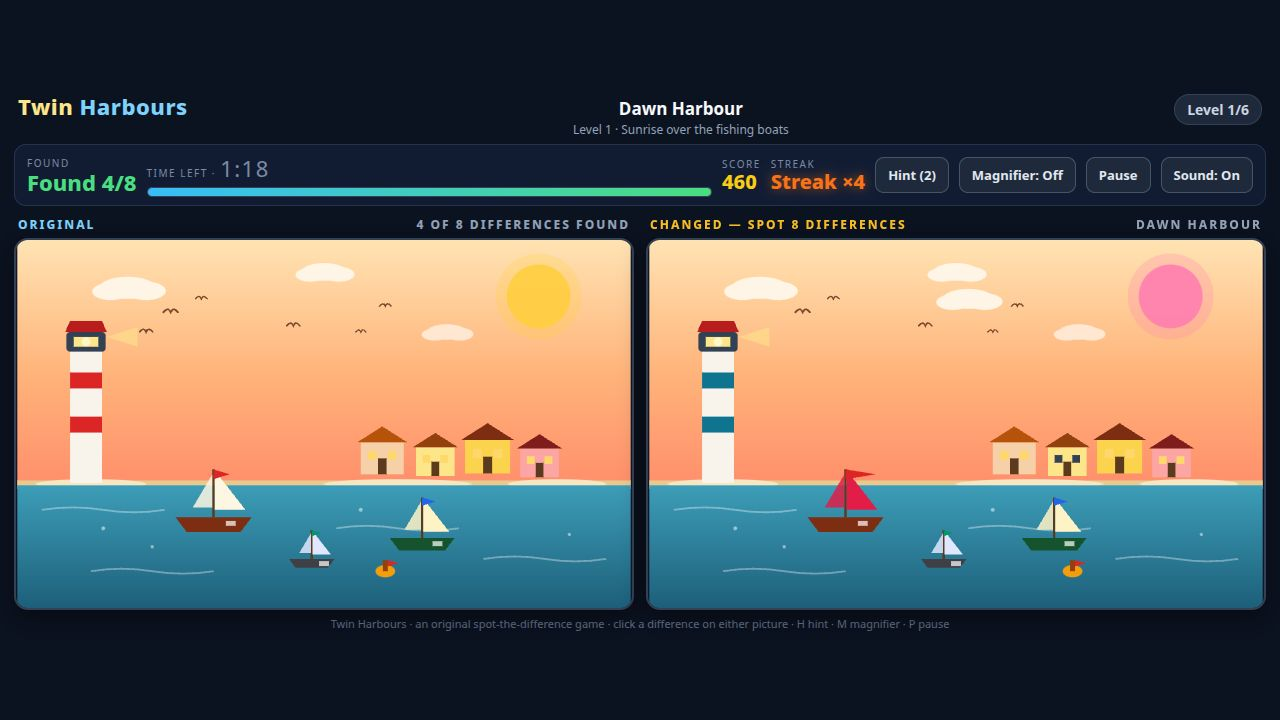
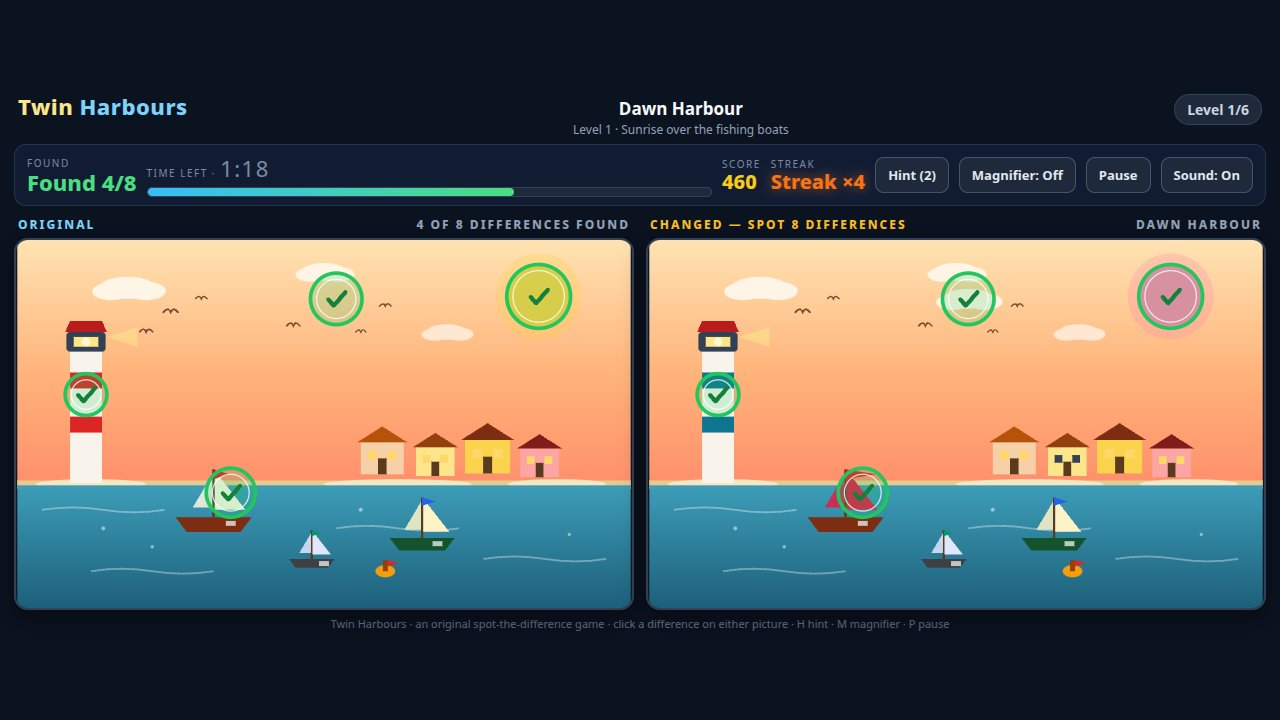
Fix cover markers, polish Night Market, re-park scene-3 lens
- stageShot now freezes staged found-markers at their final state
  (animation: none): the pop entrance animation only advances while
  the compositor produces frames, which an idle headless page may not
  do before the screenshot, so the committed cover caught the markers
  at opacity 0. Real gameplay finds still animate.
- Night Market: cobbled market floor with lantern light pools,
  fruit basket, crates, two ground lanterns, two extra shoppers with
  foot shadows, rooftop silhouettes between stalls, extra stars,
  stall posts and scalloped valances. No difference anchor moved.
- Scene 3 lens re-parked over the purple octopus (capture mouse move
  only, no game-code change).
- All four screenshots re-captured and verified by eye; full 6-level
  playtest 26/26.

diff --git a/game/src/scenes.js b/game/src/scenes.js
@@ -94,6 +94,8 @@ function buildNightMarket(changed, p) {
   <rect width="1000" height="600" fill="url(#${p}night)"/>
   <circle cx="880" cy="80" r="34" fill="#fef3c7"/><circle cx="880" cy="80" r="46" fill="#fef3c7" opacity="0.12"/>
   ${star(120, 60, 7, '#fff')}${star(240, 110, 5, '#fff')}${star(420, 50, 6, '#fff')}${star(640, 90, 5, '#fff')}${star(760, 40, 6, '#fff')}${star(60, 180, 4, '#fff')}${star(960, 150, 5, '#fff')}
+  ${star(30, 90, 4, '#fff')}${star(170, 45, 5, '#fff')}${star(560, 45, 4, '#fff')}${star(700, 140, 5, '#fff')}${star(980, 220, 4, '#fff')}${star(40, 260, 4, '#fff')}
+  <g fill="#131c33"><path d="M 322 330 L 322 306 L 350 292 L 378 306 L 378 330 Z"/><rect x="344" y="310" width="10" height="12" fill="#fde68a" opacity="0.85"/><path d="M 642 330 L 642 300 L 670 286 L 698 300 L 698 330 Z"/><rect x="664" y="304" width="10" height="12" fill="#fde68a" opacity="0.85"/><path d="M 0 330 L 0 308 L 28 296 L 58 308 L 58 330 Z"/><path d="M 950 330 L 950 304 L 975 292 L 1000 304 L 1000 330 Z"/></g>
   <path d="M 0 40 Q 250 90 500 45 T 1000 55" stroke="#3a2a1a" stroke-width="3" fill="none"/>
   <g>${[90, 190, 290, 390, 490, 590, 690, 790, 890].map((x, i) => {
     if (changed && i === 4) return `<circle cx="${x}" cy="62" r="4" fill="#334155"/>`;
@@ -107,8 +109,19 @@ function buildNightMarket(changed, p) {
   <g><rect x="60" y="330" width="260" height="16" fill="${awning}"/><rect x="60" y="346" width="260" height="130" fill="#7c2d12"/><rect x="80" y="380" width="220" height="60" fill="#451a03"/><g fill="#fbbf24"><circle cx="110" cy="410" r="10"/><circle cx="160" cy="410" r="10"/><circle cx="210" cy="410" r="10"/><circle cx="260" cy="410" r="10"/></g><rect x="120" y="300" width="140" height="30" rx="6" fill="#f87171"/><text x="190" y="321" font-size="18" font-weight="bold" text-anchor="middle" fill="#7f1d1d">DUMPLINGS</text></g>
   <g><rect x="380" y="330" width="260" height="16" fill="#0ea5e9"/><rect x="380" y="346" width="260" height="130" fill="#0c4a6e"/><rect x="400" y="380" width="220" height="60" fill="#082f49"/><g fill="#a5f3fc"><rect x="410" y="392" width="40" height="36" rx="4"/><rect x="470" y="392" width="40" height="36" rx="4"/><rect x="530" y="392" width="40" height="36" rx="4"/></g><rect x="440" y="300" width="140" height="30" rx="6" fill="${teaSign}"/><text x="510" y="321" font-size="18" font-weight="bold" text-anchor="middle" fill="#713f12">TEA HOUSE</text></g>
   <g><rect x="700" y="330" width="240" height="16" fill="#ec4899"/><rect x="700" y="346" width="240" height="130" fill="#831843"/><rect x="720" y="380" width="200" height="60" fill="#500724"/><g fill="#fda4af"><circle cx="760" cy="410" r="12"/><circle cx="830" cy="410" r="12"/><circle cx="900" cy="410" r="12"/></g><rect x="760" y="300" width="140" height="30" rx="6" fill="#fde68a"/><text x="830" y="321" font-size="18" font-weight="bold" text-anchor="middle" fill="#713f12">FLOWERS</text></g>
+  <g fill="#3f2d1e"><rect x="60" y="346" width="8" height="130"/><rect x="312" y="346" width="8" height="130"/><rect x="380" y="346" width="8" height="130"/><rect x="632" y="346" width="8" height="130"/><rect x="700" y="346" width="8" height="130"/><rect x="932" y="346" width="8" height="130"/></g>
+  <g fill="#3f2d1e">${[60, 380, 700].map((x) => Array.from({ length: 13 }, (_, i) => `<circle cx="${x + 10 + i * 20}" cy="350" r="10"/>`).join('')).join('')}</g>
   ${changed ? '<g><ellipse cx="820" cy="330" rx="26" ry="10" fill="#1f2937"/><circle cx="800" cy="322" r="10" fill="#1f2937"/><polygon points="794,314 798,302 804,314" fill="#1f2937"/><polygon points="802,314 806,302 812,314" fill="#1f2937"/><circle cx="797" cy="320" r="1.6" fill="#fbbf24"/></g>' : ''}
-  <rect x="0" y="476" width="1000" height="124" fill="#241a12"/>
+  <rect x="0" y="476" width="1000" height="124" fill="#2e2118"/>
+  <g fill="#fbbf24" opacity="0.08"><ellipse cx="150" cy="548" rx="72" ry="26"/><ellipse cx="300" cy="548" rx="72" ry="26"/><ellipse cx="470" cy="548" rx="72" ry="26"/><ellipse cx="620" cy="548" rx="72" ry="26"/><ellipse cx="850" cy="548" rx="72" ry="26"/></g>
+  <g fill="#3d2c1d" opacity="0.8">${[494, 518, 590].map((y, row) => { const off = row % 2 ? 42 : 0; return Array.from({ length: 12 }, (_, i) => `<ellipse cx="${off + 42 + i * 84}" cy="${y}" rx="36" ry="8"/>`).join(''); }).join('')}</g>
+  <g fill="#000" opacity="0.3"><ellipse cx="180" cy="560" rx="22" ry="5"/><ellipse cx="270" cy="558" rx="20" ry="5"/><ellipse cx="430" cy="570" rx="20" ry="5"/><ellipse cx="700" cy="560" rx="22" ry="5"/><ellipse cx="880" cy="563" rx="20" ry="5"/></g>
+  <g><ellipse cx="100" cy="560" rx="34" ry="12" fill="#6b4423"/><ellipse cx="100" cy="554" rx="28" ry="10" fill="#8a5a2b"/><g fill="#f97316"><circle cx="86" cy="550" r="7"/><circle cx="100" cy="546" r="7"/><circle cx="114" cy="550" r="7"/></g><g fill="#facc15"><circle cx="93" cy="556" r="6"/><circle cx="107" cy="556" r="6"/></g></g>
+  <g><rect x="340" y="542" width="34" height="28" fill="#8a5a2b"/><rect x="376" y="542" width="34" height="28" fill="#7c4a21"/><rect x="358" y="514" width="34" height="28" fill="#8a5a2b"/><line x1="340" y1="556" x2="374" y2="556" stroke="#6b4423" stroke-width="2"/><line x1="376" y1="556" x2="410" y2="556" stroke="#5b3a1e" stroke-width="2"/><line x1="358" y1="528" x2="392" y2="528" stroke="#6b4423" stroke-width="2"/></g>
+  <g><rect x="578" y="556" width="16" height="10" rx="2" fill="#3f2d1e"/><rect x="580" y="538" width="12" height="18" rx="5" fill="#f59e0b"/><circle cx="586" cy="547" r="13" fill="#fbbf24" opacity="0.3"/><circle cx="586" cy="547" r="5" fill="#fef3c7"/></g>
+  <g><rect x="947" y="556" width="16" height="10" rx="2" fill="#3f2d1e"/><rect x="949" y="538" width="12" height="18" rx="5" fill="#f59e0b"/><circle cx="955" cy="547" r="13" fill="#fbbf24" opacity="0.3"/><circle cx="955" cy="547" r="5" fill="#fef3c7"/></g>
+  <g><ellipse cx="270" cy="540" rx="13" ry="24" fill="#0e7490"/><circle cx="270" cy="510" r="11" fill="#fcd9b8"/><path d="M 259 501 Q 270 489 281 501 L 281 506 L 259 506 Z" fill="#0ea5e9"/><rect x="284" y="530" width="7" height="24" fill="#fcd9b8"/><rect x="252" y="530" width="7" height="24" fill="#fcd9b8"/></g>
+  <g><ellipse cx="880" cy="545" rx="13" ry="24" fill="#7c3aed"/><circle cx="880" cy="515" r="11" fill="#fcd9b8"/><path d="M 869 506 Q 880 494 891 506 L 891 511 L 869 511 Z" fill="#f43f5e"/><rect x="894" y="535" width="7" height="24" fill="#fcd9b8"/><rect x="862" y="535" width="7" height="24" fill="#fcd9b8"/></g>
   <g><ellipse cx="180" cy="540" rx="14" ry="26" fill="#2563eb"/><circle cx="180" cy="506" r="12" fill="#fcd9b8"/><path d="M 168 496 Q 180 482 192 496 L 192 502 L 168 502 Z" fill="#dc2626"/><rect x="196" y="530" width="8" height="26" fill="#fcd9b8"/><rect x="162" y="530" width="8" height="26" fill="#fcd9b8"/></g>
   <g><ellipse cx="700" cy="540" rx="14" ry="26" fill="#059669"/><circle cx="700" cy="506" r="12" fill="#fcd9b8"/><path d="M 688 496 Q 700 484 712 496 L 712 502 L 688 502 Z" fill="#f59e0b"/>${changed ? '<ellipse cx="700" cy="488" rx="20" ry="7" fill="#7c3aed"/><rect x="694" y="478" width="12" height="10" fill="#7c3aed"/>' : ''}<rect x="716" y="530" width="8" height="26" fill="#fcd9b8"/><rect x="682" y="530" width="8" height="26" fill="#fcd9b8"/></g>
   <g><ellipse cx="430" cy="552" rx="12" ry="22" fill="#db2777"/><circle cx="430" cy="524" r="10" fill="#fcd9b8"/><rect x="444" y="544" width="7" height="22" fill="#fcd9b8"/></g>

diff --git a/game/src/game.js b/game/src/game.js
@@ -284,6 +284,16 @@ export function stageShot(name) {
   }
   hideOverlay();
   renderAll(state);
+  // Staged markers must be fully visible the instant __shotReady fires.
+  // The pop entrance animation only advances while the compositor produces
+  // frames, which an idle headless page may not do before the screenshot,
+  // so a capture can catch the markers at opacity 0 (the committed cover
+  // shipped that way while scene 3, captured later, showed them). Freeze
+  // the staged markers at their final state; real gameplay finds still
+  // animate, because renderMarkers creates fresh animated elements then.
+  document.querySelectorAll('.found-mark-pop').forEach((el) => {
+    el.style.animation = 'none';
+  });
   if (name === 'victory') showLevelCompleteScreen(state, 390);
   if (name === 'scene3') {
     // Park the magnifier over an unfound difference on the right panel.
